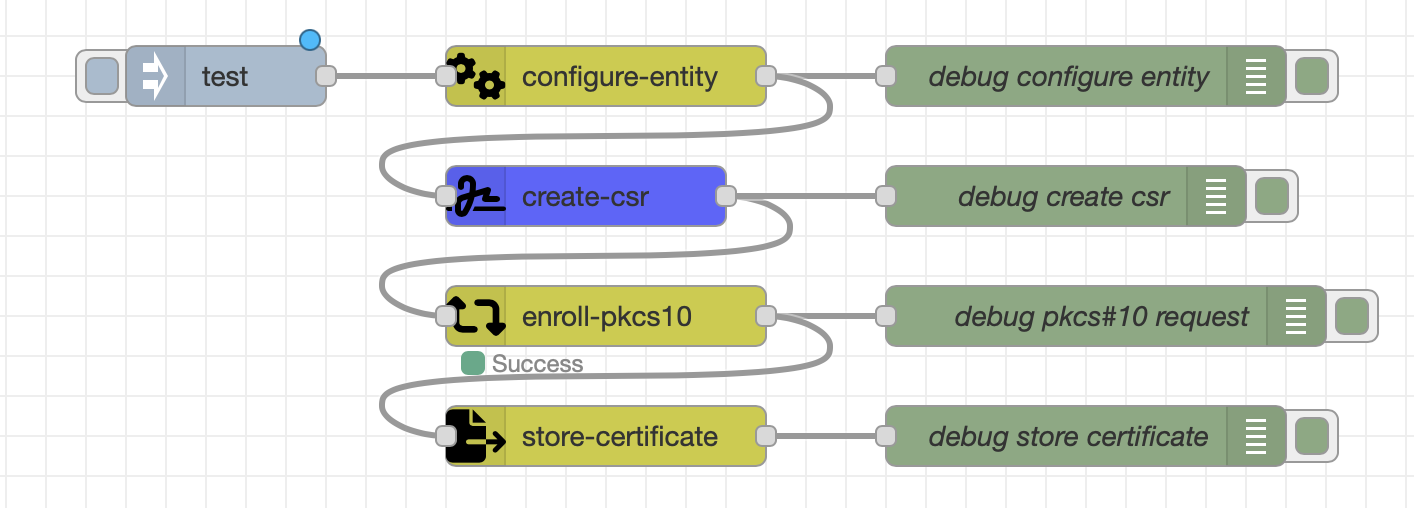
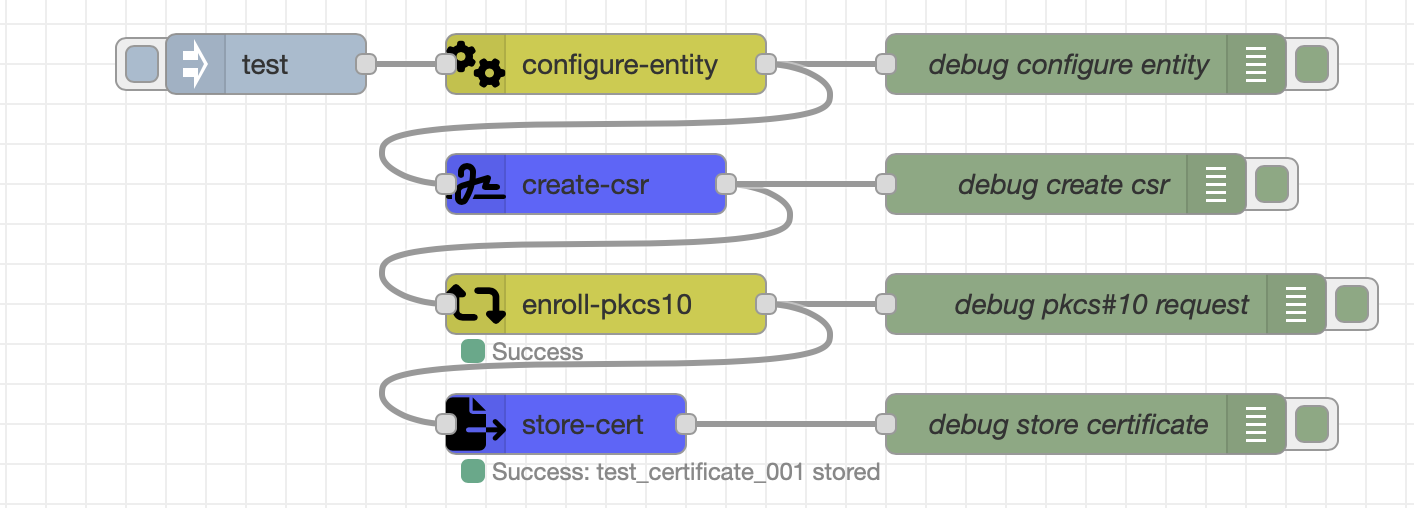
update

Changed region(s): [[0.0311, 0.0591, 0.9958, 0.9449]]

diff --git a/lib/store-cert.js b/lib/store-cert.js
@@ -1,0 +1,88 @@
+const graphene = require("graphene-pk11");
+const Module = graphene.Module;
+const resolveValue = require('./resources/resolve-value.js');
+const forge = require("node-forge");
+
+
+module.exports = function (RED) {
+    function StoreNode(config) {
+        RED.nodes.createNode(this, config);
+        var globalContext = this.context().global;
+        var flowContext = this.context().flow;
+        const node = this;
+
+        this.fieldTypeCertificate = config.certificate_fieldType;
+        this.certificate = config.certificate;
+        this.fieldTypecertificateLabel = config.certificateLabel_fieldType;
+        this.certificateLabel = config.certificateLabel;
+
+
+        node.on('input', function (msg, send, done) {
+
+            var pkcs11ConfigNode = RED.nodes.getNode(config.pkcs11Config);
+            var libraryPath = pkcs11ConfigNode.libraryPath;
+            var slotNumber = pkcs11ConfigNode.slot;
+            var slotPin = pkcs11ConfigNode.password;
+
+            const certificate = resolveValue(msg, this.fieldTypeCertificate, globalContext, flowContext, this.certificate);
+            const certificateLabel = resolveValue(msg, this.fieldTypecertificateLabel, globalContext, flowContext, this.certificateLabel);
+
+            try {
+                const mod = Module.load(libraryPath, "SoftHSM");
+                mod.initialize();
+
+                const slots = mod.getSlots(true);
+                if (slots.length > 0) {
+                    const slot = slots.items(parseInt(slotNumber));
+
+                    if (slot.flags & graphene.SlotFlag.TOKEN_PRESENT) {
+
+                        const session = slot.open(graphene.SessionFlag.SERIAL_SESSION | graphene.SessionFlag.RW_SESSION);
+                        session.login(slotPin);
+
+                        const derCertificate = forge.util.decode64(certificate);
+                        var certificate_pem = forge.pki.certificateToPem(forge.pki.certificateFromAsn1(forge.asn1.fromDer(derCertificate)));
+                        var certificate_forge = forge.pki.certificateFromPem(certificate_pem);
+
+                        console.log(certificate_forge);
+
+                        // Extract and format the subject attributes
+                        const subjectAttributes = certificate_forge.subject.attributes;
+                        const serializedSubject = JSON.stringify(subjectAttributes);
+                        const subjectBuffer = Buffer.from(serializedSubject, 'utf8');
+
+                        const certificateBuffer = Buffer.from(derCertificate, 'binary');
+
+                        const template = {
+                            class: graphene.ObjectClass.CERTIFICATE,
+                            certType: graphene.CertificateType.X_509,
+                            private: false,
+                            token: true,
+                            label: certificateLabel,
+                            subject: subjectBuffer,
+                            value: certificateBuffer,
+                        };
+
+                        const objCert = session.create(template).toType();
+                        node.status({fill: 'green', shape: 'dot', text: 'Success: ' + objCert.label + ' stored'});
+
+                        session.logout();
+                        session.close();
+                    } else {
+                        console.error("Slot is not initialized.");
+                    }
+                } else {
+                    console.error("No available slots.");
+                }
+                mod.finalize();
+                send(msg);
+                done();
+            } catch (error) {
+                console.error('Signing failed:', error);
+                node.status({fill: 'red', shape: 'ring', text: "Error"});
+            }
+        });
+    }
+
+    RED.nodes.registerType("p11-store-cert", StoreNode);
+};

diff --git a/lib/store-cert.html b/lib/store-cert.html
@@ -1,0 +1,63 @@
+<script type="text/javascript">
+    RED.nodes.registerType('p11-store-cert', {
+        category: 'PKCS#11',
+        color: "rgb(95, 97, 255)",
+        defaults: {
+            name: {value: ""},
+            pkcs11Config: {
+                type: "pkcs11-config",
+                value: "",
+                required: true
+            },
+            certificate_fieldType: {value: "msg"},
+            certificate: {value: "payload", required: true},
+            certificateLabel_fieldType: {value: "str"},
+            certificateLabel: {value: "private_key", required: true},
+        },
+        inputs: 1,
+        outputs: 1,
+        icon: "icons/2-file-export-solid.svg",
+        label: function () {
+            return this.name || "store-cert";
+        },
+        oneditprepare: function () {
+            $("#node-input-certificateLabel").typedInput({
+                default: 'msg',
+                types: ['msg', 'global', 'flow', 'str'],
+                typeField: $("#node-input-certificateLabel_fieldType")
+            });
+
+            $("#node-input-certificate").typedInput({
+                default: 'msg',
+                types: ['msg', 'global', 'flow', 'str'],
+                typeField: $("#node-input-certificate_fieldType")
+            });
+        }
+    });
+</script>
+
+<script type="text/html" data-template-name="p11-store-cert">
+    <div class="form-row">
+        <label for="node-input-name"><i class="fa fa-tag"></i> Name</label>
+        <input type="text" id="node-input-name" placeholder="Name">
+    </div>
+    <div class="form-row">
+        <label for="node-input-pkcs11Config">
+            <i class="fa fa-gear"></i> PKCS#11 Configuration
+        </label>
+        <input type="text" style="width: 300px" id="node-input-pkcs11Config">
+    </div>
+
+
+    <div class="form-row">
+        <label for="node-input-certificate"><i class="fa fa-certificate"></i> Certificate</label>
+        <input type="text" id="node-input-certificate" style="width:250px;">
+        <input type="hidden" id="node-input-certificatefieldType">
+    </div>
+
+    <div class="form-row">
+        <label for="node-input-certificateLabel"><i class="fa fa-tag"></i> Certificate Label</label>
+        <input type="text" id="node-input-certificateLabel" style="width:250px;">
+        <input type="hidden" id="node-input-certificateLabel_fieldType">
+    </div>
+</script>

diff --git a/lib/sign.js b/lib/sign.js
@@ -26,7 +26,6 @@ module.exports = function (RED) {
             const payload = resolveValue(msg, this.fieldTypepayload, globalContext, flowContext, this.payload);
             const privateKeyLabel = resolveValue(msg, this.fieldTypePrivateKeyLabel, globalContext, flowContext, this.privateKeyLabel);
 
-
             try {
                 const mod = Module.load(libraryPath, "SoftHSM");
                 mod.initialize();

diff --git a/README.md b/README.md
@@ -185,7 +185,7 @@ The enrollment workflow utilizes [node-red-contrib-ejbca](https://github.com/FHa
         "wires": [
             [
                 "6565e43c510ece1c",
-                "ca8a9d22dc1aa2c6"
+                "ad7da3cce58fed40"
             ]
         ]
     },
@@ -205,27 +205,6 @@ The enrollment workflow utilizes [node-red-contrib-ejbca](https://github.com/FHa
         "x": 670,
         "y": 180,
         "wires": []
-    },
-    {
-        "id": "ca8a9d22dc1aa2c6",
-        "type": "store-certificate",
-        "z": "6606d9de5049d44d",
-        "name": "",
-        "certificate_fieldType": "msg",
-        "certificate": "ejbca.enroll_pkcs10.certificate",
-        "outputDirectory_fieldType": "str",
-        "outputDirectory": "/Users/florianhandke/Downloads",
-        "fileName_fieldType": "str",
-        "fileName": "cert",
-        "outputFormat": "PEM",
-        "fileExtension": "cer",
-        "x": 420,
-        "y": 240,
-        "wires": [
-            [
-                "1976881b248836b2"
-            ]
-        ]
     },
     {
         "id": "1976881b248836b2",
@@ -264,6 +243,24 @@ The enrollment workflow utilizes [node-red-contrib-ejbca](https://github.com/FHa
             [
                 "0f9a13f86ac05612",
                 "0a97a5e70957471b"
+            ]
+        ]
+    },
+    {
+        "id": "ad7da3cce58fed40",
+        "type": "p11-store-cert",
+        "z": "6606d9de5049d44d",
+        "name": "",
+        "pkcs11Config": "35d840b7431fc17d",
+        "certificate_fieldType": "msg",
+        "certificate": "ejbca.enroll_pkcs10.certificate",
+        "certificateLabel_fieldType": "str",
+        "certificateLabel": "test_certificate_001",
+        "x": 400,
+        "y": 240,
+        "wires": [
+            [
+                "1976881b248836b2"
             ]
         ]
     },
